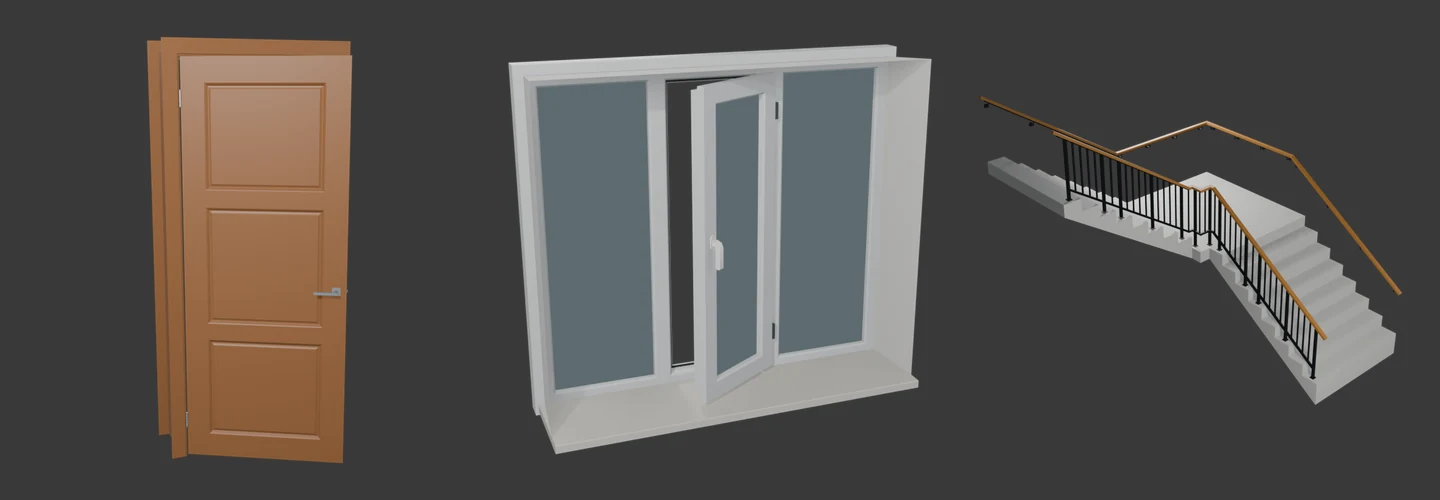
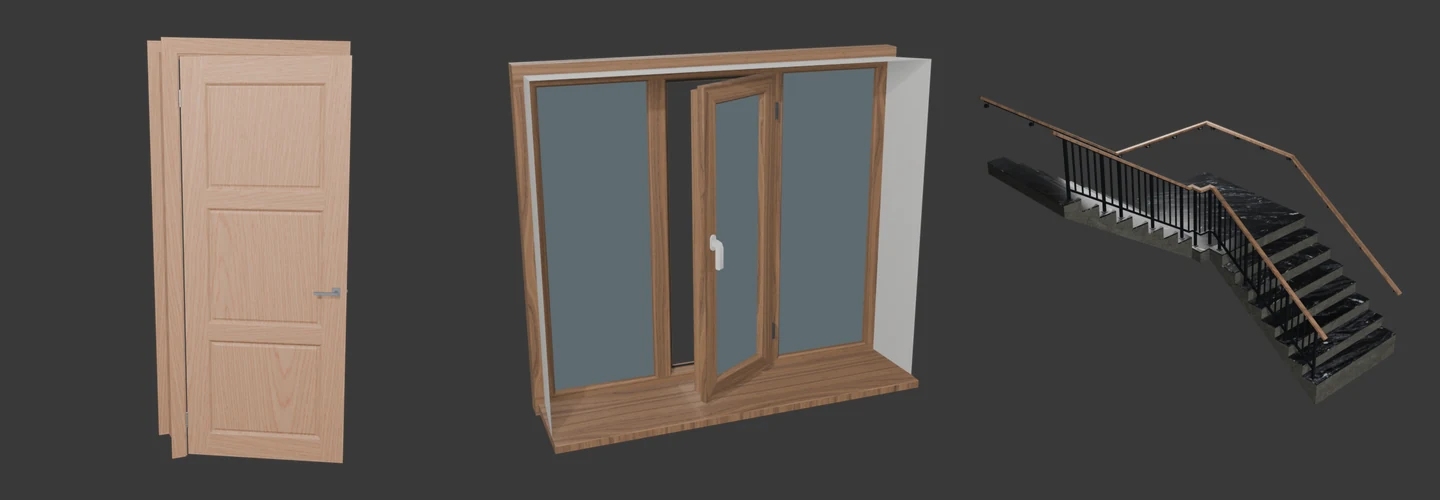
textured renders

diff --git a/tools/studio.py b/tools/studio.py
@@ -8,6 +8,7 @@ Renders have a transparent background; `compose.py` puts them on the page colour
 """
 
 from math import atan, radians, sin
+import os
 from pathlib import Path
 import sys
 
@@ -19,6 +20,14 @@ DOCS = Path(__file__).resolve().parents[1]
 GRAG = DOCS.parent / 'GRAG'
 BUILDER = DOCS.parent / 'BlenderBuilder'
 RENDERS = DOCS / 'tools' / '_renders'
+# Texture library for the textured figures: wood veneers and the tile set.
+TEXTURES = Path(os.environ.get('GRAG_DOCS_TEXTURES', 'E:/GameDev/KinX-Dev/textures'))
+# Stone and concrete for the stairs, from a second library.
+PROCESSED = Path(os.environ.get('GRAG_DOCS_PROCESSED', 'E:/GameDev/Modular Assets/Textures/Processed'))
+ANGLI = TEXTURES / 'Veneers' / 'angli_veneer_2k' / 'textures' / 'angli_veneer_{}_2k.png'
+WALNUT = TEXTURES / 'Veneers' / 'black_walnut_veneer_02_2k' / 'textures' / 'black_walnut_veneer_02_{}_2k.png'
+MARBLE = TEXTURES / 'goldenblack_2-4K' / 'goldenblack_2-4K' / 'goldenblack_2_{}-4K.png'
+CONCRETE = PROCESSED / 'grave_concrete_03' / 'gravel_concrete_03_{}.png'
 sys.path[:0] = [str(GRAG)]
 
 import grag  # noqa: E402
@@ -245,6 +254,92 @@ def _collision_materials(kind):
         output = nodes.new('ShaderNodeOutputMaterial')
         edge.node_tree.links.new(emission.outputs[0], output.inputs[0])
     return fill, edge
+
+
+
+def textured_material(name, color, roughness=None, normal=None, arm=None, rotate=False, scale=(1, 1),
+                      normal_strength=.6):
+    """A material that reads its maps, given as file paths, from the draft atlas in UVMap.
+
+    `arm` is a packed map with roughness in green, used when there is no roughness map.
+    `rotate` turns the image a quarter turn, for wood whose grain runs along U on an
+    atlas that lays grain along V. `scale` repeats the image along U and V.
+    """
+    material = bpy.data.materials.get(name)
+    if material is not None:
+        return material
+    material = bpy.data.materials.new(name)
+    material.use_nodes = True
+    tree = material.node_tree
+    nodes, links = tree.nodes, tree.links
+    shader = nodes['Principled BSDF']
+    coordinates = nodes.new('ShaderNodeUVMap')
+    coordinates.uv_map = 'UVMap'
+    mapping = nodes.new('ShaderNodeMapping')
+    mapping.inputs['Scale'].default_value = (*scale, 1)
+    mapping.inputs['Rotation'].default_value = (0, 0, radians(90) if rotate else 0)
+    links.new(coordinates.outputs[0], mapping.inputs[0])
+
+    def image(path, data):
+        node = nodes.new('ShaderNodeTexImage')
+        node.image = bpy.data.images.load(str(path), check_existing=True)
+        if data:
+            node.image.colorspace_settings.name = 'Non-Color'
+        links.new(mapping.outputs[0], node.inputs[0])
+        return node
+
+    links.new(image(color, False).outputs[0], shader.inputs['Base Color'])
+    if roughness:
+        links.new(image(roughness, True).outputs[0], shader.inputs['Roughness'])
+    elif arm:
+        channels = nodes.new('ShaderNodeSeparateColor')
+        links.new(image(arm, True).outputs[0], channels.inputs[0])
+        links.new(channels.outputs['Green'], shader.inputs['Roughness'])
+    if normal:
+        normal_map = nodes.new('ShaderNodeNormalMap')
+        normal_map.uv_map = 'UVMap'
+        normal_map.inputs['Strength'].default_value = normal_strength
+        links.new(image(normal, True).outputs[0], normal_map.inputs['Color'])
+        links.new(normal_map.outputs[0], shader.inputs['Normal'])
+    return material
+
+
+def repaint(root, replacements, parts=None):
+    """Put textured materials on an asset's meshes, by the name of the material they replace.
+
+    `parts` limits the change to meshes with these grag_part names.
+    """
+    for obj in [root, *root.children_recursive]:
+        if obj.type != 'MESH' or obj.get('grag_collision'):
+            continue
+        if parts is not None and obj.get('grag_part') not in parts:
+            continue
+        for slot in obj.material_slots:
+            for key, material in replacements.items():
+                if slot.material and key in slot.material.name:
+                    slot.link = 'OBJECT'
+                    slot.material = material
+                    break
+
+
+def veneer(wood='ANGLI', rotate=False):
+    pattern = str(ANGLI if wood == 'ANGLI' else WALNUT)
+    return textured_material(f'Docs Veneer {wood} {rotate}', pattern.format('diff'), pattern.format('rough'),
+                             pattern.format('nor_gl'), rotate=rotate)
+
+
+def marble():
+    """Black and gold marble for tread plates; the image is twice as wide as tall, so U shows half of it."""
+    pattern = str(MARBLE)
+    return textured_material('Docs Marble', pattern.format('basecolor'), pattern.format('roughness'),
+                             pattern.format('normal'), scale=(.5, 1), normal_strength=.3)
+
+
+def concrete():
+    """Concrete with the equalized colour map, repeated so its grain keeps a believable size on a stair atlas."""
+    pattern = str(CONCRETE)
+    return textured_material('Docs Concrete', pattern.format('diff_2k_equalized'), normal=pattern.format('nor_gl_2k'),
+                             arm=pattern.format('arm_2k'), scale=(3, 3), normal_strength=.5)
 
 
 DEG = radians

diff --git a/tools/render_stairs.py b/tools/render_stairs.py
@@ -6,7 +6,8 @@ from pathlib import Path
 sys.path.insert(0, str(Path(__file__).resolve().parent))
 import bpy  # noqa: E402
 
-from studio import asset_meshes, clear, frame, ghost_material, render, reset, show_collisions  # noqa: E402
+from studio import (asset_meshes, clear, concrete, frame, ghost_material, marble, render, repaint,  # noqa: E402
+                    reset, show_collisions, veneer)
 from grag.services.presets import builtin_preset  # noqa: E402
 
 PRESETS = ('Straight Concrete Stairs', 'L-Turn with Timber Balusters', 'U-Turn with Tubular Railing',
@@ -69,6 +70,7 @@ def mounting():
 def finish():
     for name, value in (('original', 'ORIGINAL'), ('plates', 'PLATES')):
         root = stairs(step_count=5, width=1.0, tread_finish=value, use_top_bevel=True, use_bottom_bevel=True)
+        repaint(root, {'Concrete': concrete(), 'Tread Finish': marble()})
         frame(asset_meshes(root), (1.6, .9, .8), lens=70, width=800, height=600)
         render(f'stairs_finish_{name}')
 
@@ -82,9 +84,15 @@ def collisions():
 
 
 def hero():
-    root = stairs('L-Turn with Timber Balusters')
+    """The L-turn with marble tread plates on a concrete body and walnut handrails."""
+    root = stairs('L-Turn with Timber Balusters', tread_finish='PLATES')
+    # Stair atlases lay the grain along V; the veneer image has it along U.
+    repaint(root, {'Concrete': concrete(), 'Tread Finish': marble(), 'Timber Handrail': veneer('WALNUT', rotate=True)})
     frame(asset_meshes(root), VIEW, width=900, height=900)
     render('hero_stairs')
+    # The same stairs from the other side, for the texturing page.
+    frame(asset_meshes(root), (-1.1, 1.5, 1.2), width=900, height=900)
+    render('stairs_ready')
 
 
 reset()

diff --git a/tools/render_texturing.py b/tools/render_texturing.py
@@ -7,7 +7,7 @@ from pathlib import Path
 sys.path.insert(0, str(Path(__file__).resolve().parent))
 import bpy  # noqa: E402
 
-from studio import RENDERS, asset_meshes, clear, frame, render, reset  # noqa: E402
+from studio import RENDERS, asset_meshes, clear, frame, render, repaint, reset, veneer  # noqa: E402
 
 ROOM_SIDE = (.9, 2.4, .55)
 
@@ -61,6 +61,18 @@ def checker():
     render('door_uv_grid')
 
 
+def veneered():
+    """The draft atlas as it comes out of Rebuild, with a wood veneer and nothing else done."""
+    root = door('CLASSIC_THREE', one_material=False, texture_grain='HORIZONTAL')
+    repaint(root, {'Warm Wood': veneer('ANGLI')})
+    frame(asset_meshes(root), ROOM_SIDE, width=560, height=900)
+    render('door_veneer')
+    # Close to the handle, where the rails, stiles and panels each show their grain.
+    grips = [obj for obj in asset_meshes(root) if obj.get('grag_part') == 'grips']
+    frame(grips, (.9, 2.4, .3), lens=70, margin=6, width=800, height=800)
+    render('door_veneer_close')
+
+
 def painter():
     """The high bake file: each source material in its ID colour, bake groups moved apart."""
     root = door('SLATS', handle_finish='BLACK', long_backplate=True, one_material=False)
@@ -84,6 +96,6 @@ def painter():
 
 
 reset()
-JOBS = {'checker': checker, 'painter': painter}
+JOBS = {'checker': checker, 'veneer': veneered, 'painter': painter}
 for job in (sys.argv[sys.argv.index('--') + 1:] if '--' in sys.argv else JOBS):
     JOBS[job]()

diff --git a/tools/compose.py b/tools/compose.py
@@ -201,6 +201,12 @@ def texturing_atlas():
     save(image, 'texturing-atlas')
 
 
+def texturing_ready():
+    """The draft atlas with a wood veneer, straight out of Rebuild."""
+    grid('texturing-ready', [render('door_veneer'), render('door_veneer_close', trim=False),
+                              render('stairs_ready')], 3, (440, 600), gap=30)
+
+
 def painter_bake():
     grid('painter-bake', [render('door_painter_high')], 1, (1400, 620))
 
@@ -209,7 +215,7 @@ FIGURES = {'window-collision-detail': window_collision_detail, 'door-styles': do
            'door-handles': door_handles, 'door-layouts': door_layouts, 'window-presets': window_presets,
            'stairs-presets': stairs_presets, 'stairs-finish': stairs_finish, 'stairs-collisions': stairs_collisions,
            'railing-types': railing_types, 'railing-mounting': railing_mounting, 'hero': hero,
-           'texturing-atlas': texturing_atlas, 'painter-bake': painter_bake}
+           'texturing-atlas': texturing_atlas, 'painter-bake': painter_bake, 'texturing-ready': texturing_ready}
 
 if __name__ == '__main__':
     for name in sys.argv[1:] or FIGURES:

diff --git a/tools/render_doors.py b/tools/render_doors.py
@@ -7,7 +7,7 @@ from pathlib import Path
 sys.path.insert(0, str(Path(__file__).resolve().parent))
 import bpy  # noqa: E402
 
-from studio import asset_meshes, clear, frame, render, reset, show_collisions  # noqa: E402
+from studio import asset_meshes, clear, frame, render, repaint, reset, show_collisions, veneer  # noqa: E402
 
 STYLES = ('FLUSH', 'SLATS', 'STEEL', 'REFERENCE', 'ROUNDED_FOUR', 'CLASSIC_THREE', 'MODERN_TWO')
 HANDLES = ('SQUARE', 'KNOB', 'TUBE', 'REFERENCE', 'SWEPT', 'BLADE', 'TURNED', 'WAVE')
@@ -57,7 +57,9 @@ def layouts():
 
 
 def hero():
-    root = door(style='CLASSIC_THREE', swing=radians(28))
+    # The veneer's grain runs along U, so the atlas lays the grain along U as well.
+    root = door(style='CLASSIC_THREE', swing=radians(28), texture_grain='HORIZONTAL')
+    repaint(root, {'Warm Wood': veneer('ANGLI')})
     frame(asset_meshes(root), ROOM_SIDE, width=560, height=900)
     render('hero_door')
 

diff --git a/tools/render_windows.py b/tools/render_windows.py
@@ -6,7 +6,7 @@ from pathlib import Path
 sys.path.insert(0, str(Path(__file__).resolve().parent))
 import bpy  # noqa: E402
 
-from studio import RENDERS, asset_meshes, clear, frame, render, reset, show_collisions  # noqa: E402
+from studio import RENDERS, asset_meshes, clear, frame, render, repaint, reset, show_collisions, veneer  # noqa: E402
 from grag.services.presets import window_layout_preset  # noqa: E402
 
 PRESETS = ('SINGLE_FIXED', 'DOUBLE_FIXED', 'DOUBLE_SASH', 'TRIPLE_FIXED', 'TRIPLE_SASH', 'FRENCH')
@@ -61,6 +61,9 @@ def french():
 
 def hero():
     root = window('TRIPLE_SASH', preview=.35)
+    # Window atlases lay the grain along V; the veneer image has it along U.
+    wood = veneer('WALNUT', rotate=True)
+    repaint(root, {'Window Frame': wood, 'Window Sill': wood})
     frame(asset_meshes(root), ROOM_SIDE, width=900, height=720)
     render('hero_window')
 

diff --git a/docs/texturing.md b/docs/texturing.md
@@ -7,10 +7,14 @@ The **Texturing and Baking** section is the same in every panel:
 - **Prepare Draft UVs** unwraps the current meshes again, keeping their geometry and hand edits. Use it after editing a mesh or changing material assignments.
 - **Export for Substance Painter**.
 
-Every **Rebuild** unwraps a draft atlas into the `UVMap` layer. The generator marks seams where it knows them, for example on mitred joints and profiled frames, and the grain direction of wooden parts; a shared UV service unwraps the faces of each texture set, scales the islands evenly, turns wood grain along the chosen texture axis and packs the atlas. Faces without generator seams get their islands by projection. Glass and window reveals keep tiled UVs and stay out of the atlas. Other UV layers, such as an authored one, are kept. Refine the unwrap by hand after the last rebuild or draft.
+Every **Rebuild** unwraps a draft atlas into the `UVMap` layer. The generator marks seams where it knows them, for example on mitred joints and profiled frames, and the grain direction of wooden parts; a shared UV service unwraps the faces of each texture set, scales the islands evenly, turns wood grain along the chosen texture axis and packs the atlas. Faces without generator seams get their islands by projection. Glass and window reveals keep tiled UVs and stay out of the atlas. Other UV layers, such as an authored one, are kept. Islands are never mirrored, and they are turned upright: world up points up the texture on vertical faces, and the climbing direction of stairs on horizontal ones, so lettering and directional patterns read the right way. Islands aligned with the wood grain only turn half a turn, so the grain keeps its axis. Refine the unwrap by hand after the last rebuild or draft.
 
 
 ![A door with a checker on its draft atlas, and the atlas. Every part has the same texel density.](images/texturing-atlas.webp)
+
+The draft atlas is ready to use as it is: put a texture on the material and every part shows it at the same scale, with the grain along each part and nothing upside down.
+
+![The draft atlases with wood veneer, marble and concrete, straight after Rebuild, with no UV editing.](images/texturing-ready.webp)
 
 **Export for Substance Painter** writes `<name>_low.obj` to paint and `<name>_high.obj` to bake Material ID and ambient occlusion, each with its `.mtl`. Both files hold the same meshes with `_low` and `_high` suffixes, so Painter can match them by mesh name. In the low file each material is a texture set, or there is one with **One Material**. In the high file each source material has its own colour for the ID map. The export uses the closed pose. Parts in different bake groups are moved apart along X by 0.5 m so they do not occlude each other, and helper geometry that only adds ambient occlusion is in the high file only. In Painter:
 

diff --git a/README.md b/README.md
@@ -26,3 +26,5 @@ Images and GIFs in `docs/images` are made from the GRAG source in the sibling `G
 | `tools/make_gifs.py` | GIFs from the captured frames |
 
 Intermediate files go to `tools/_renders`, which is not committed.
+
+The textured figures read their maps from two local texture libraries. `GRAG_DOCS_TEXTURES` holds `Veneers/angli_veneer_2k`, `Veneers/black_walnut_veneer_02_2k` and `goldenblack_2-4K`; `GRAG_DOCS_PROCESSED` holds `grave_concrete_03`.
